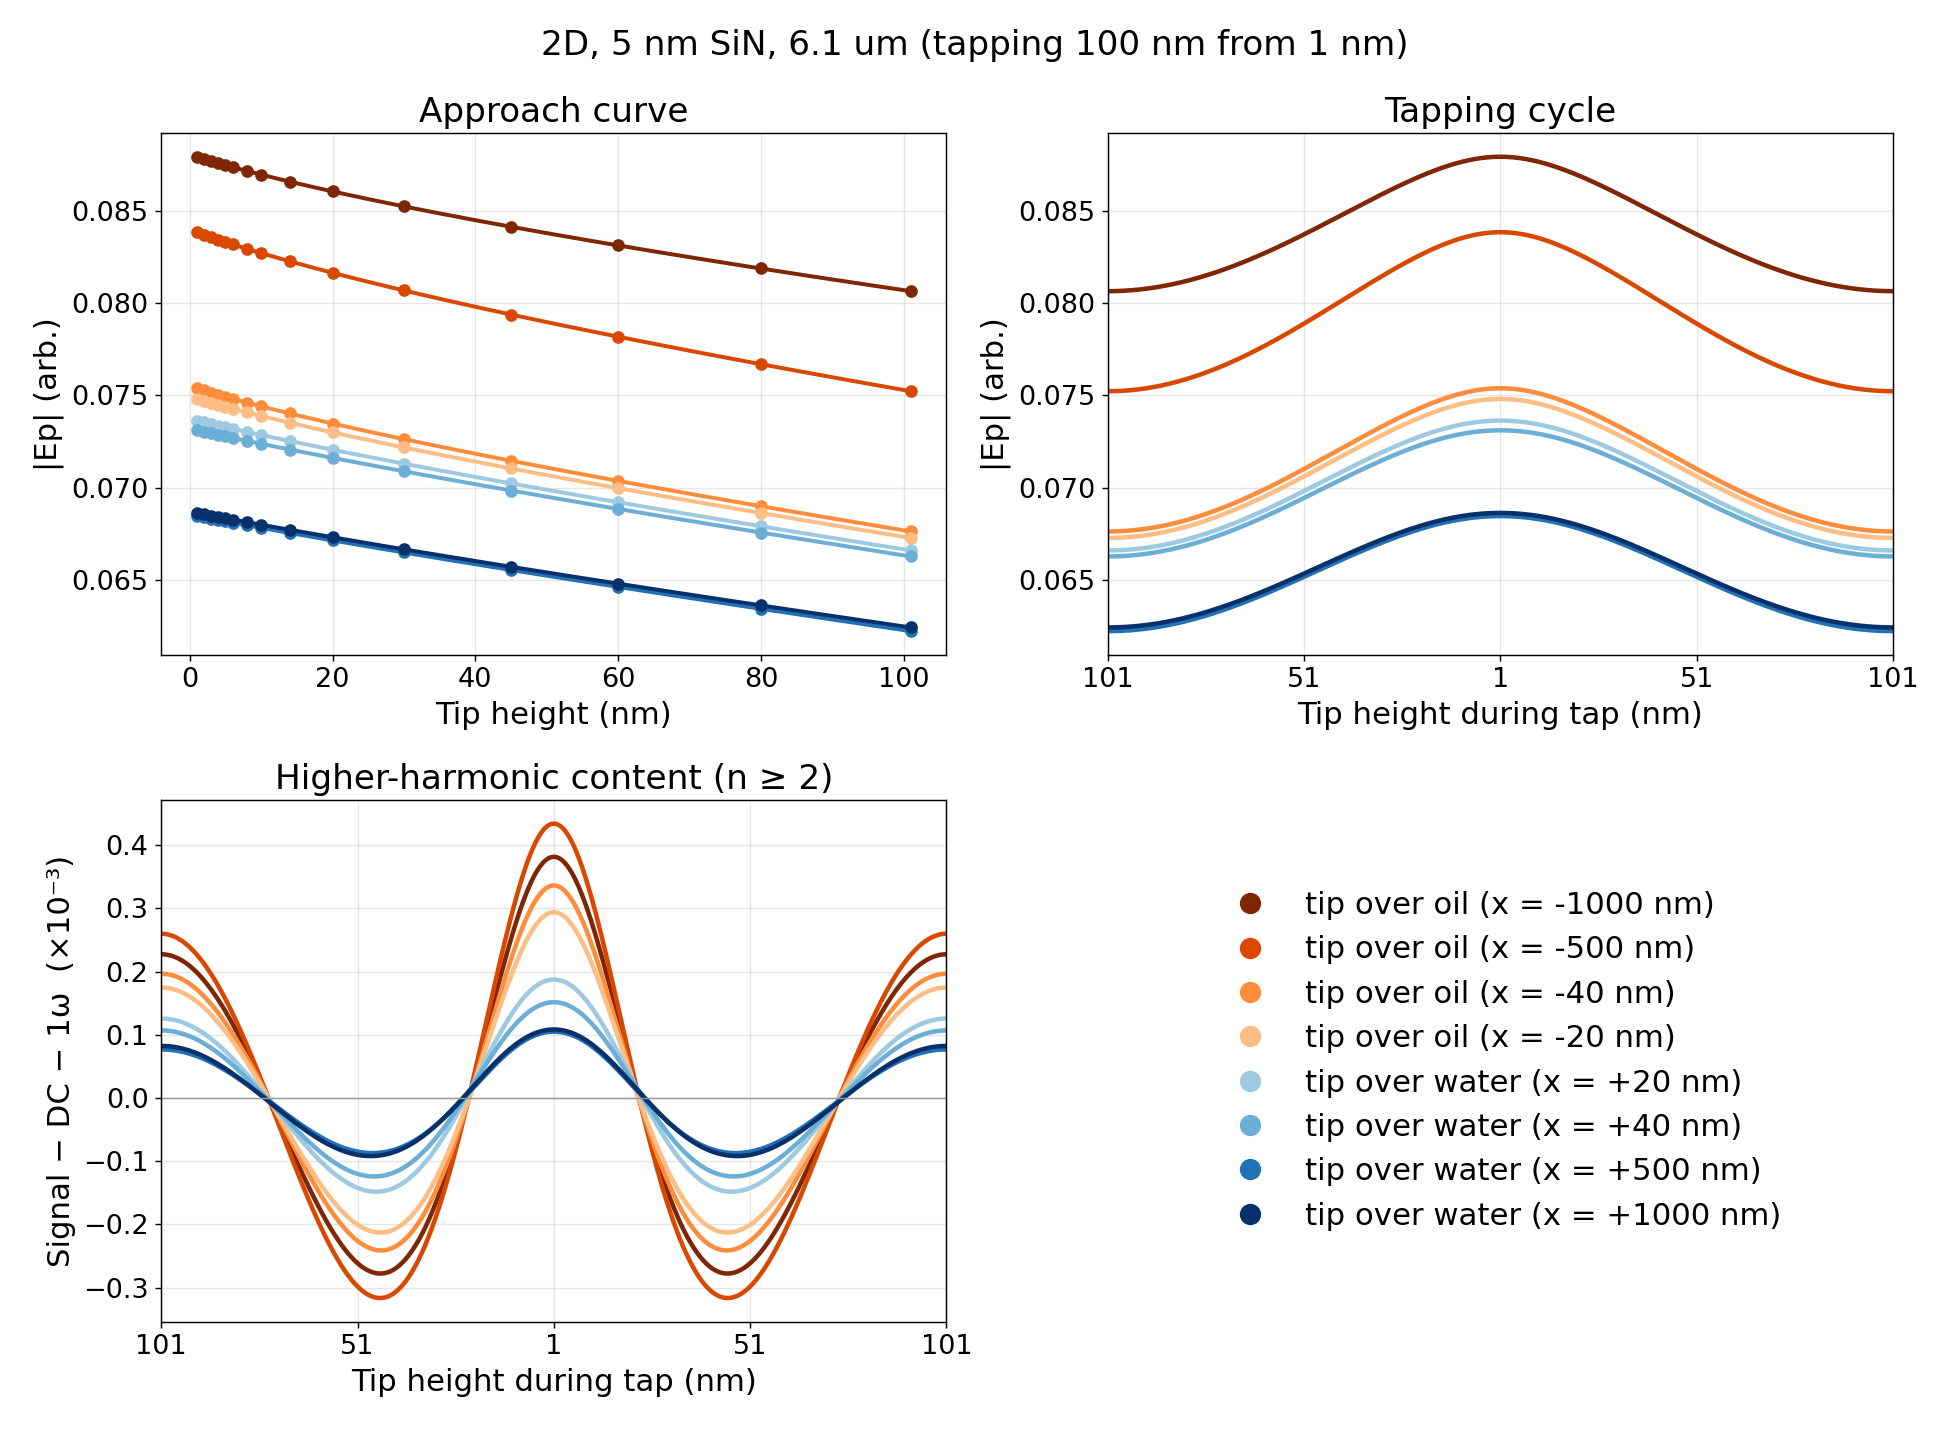
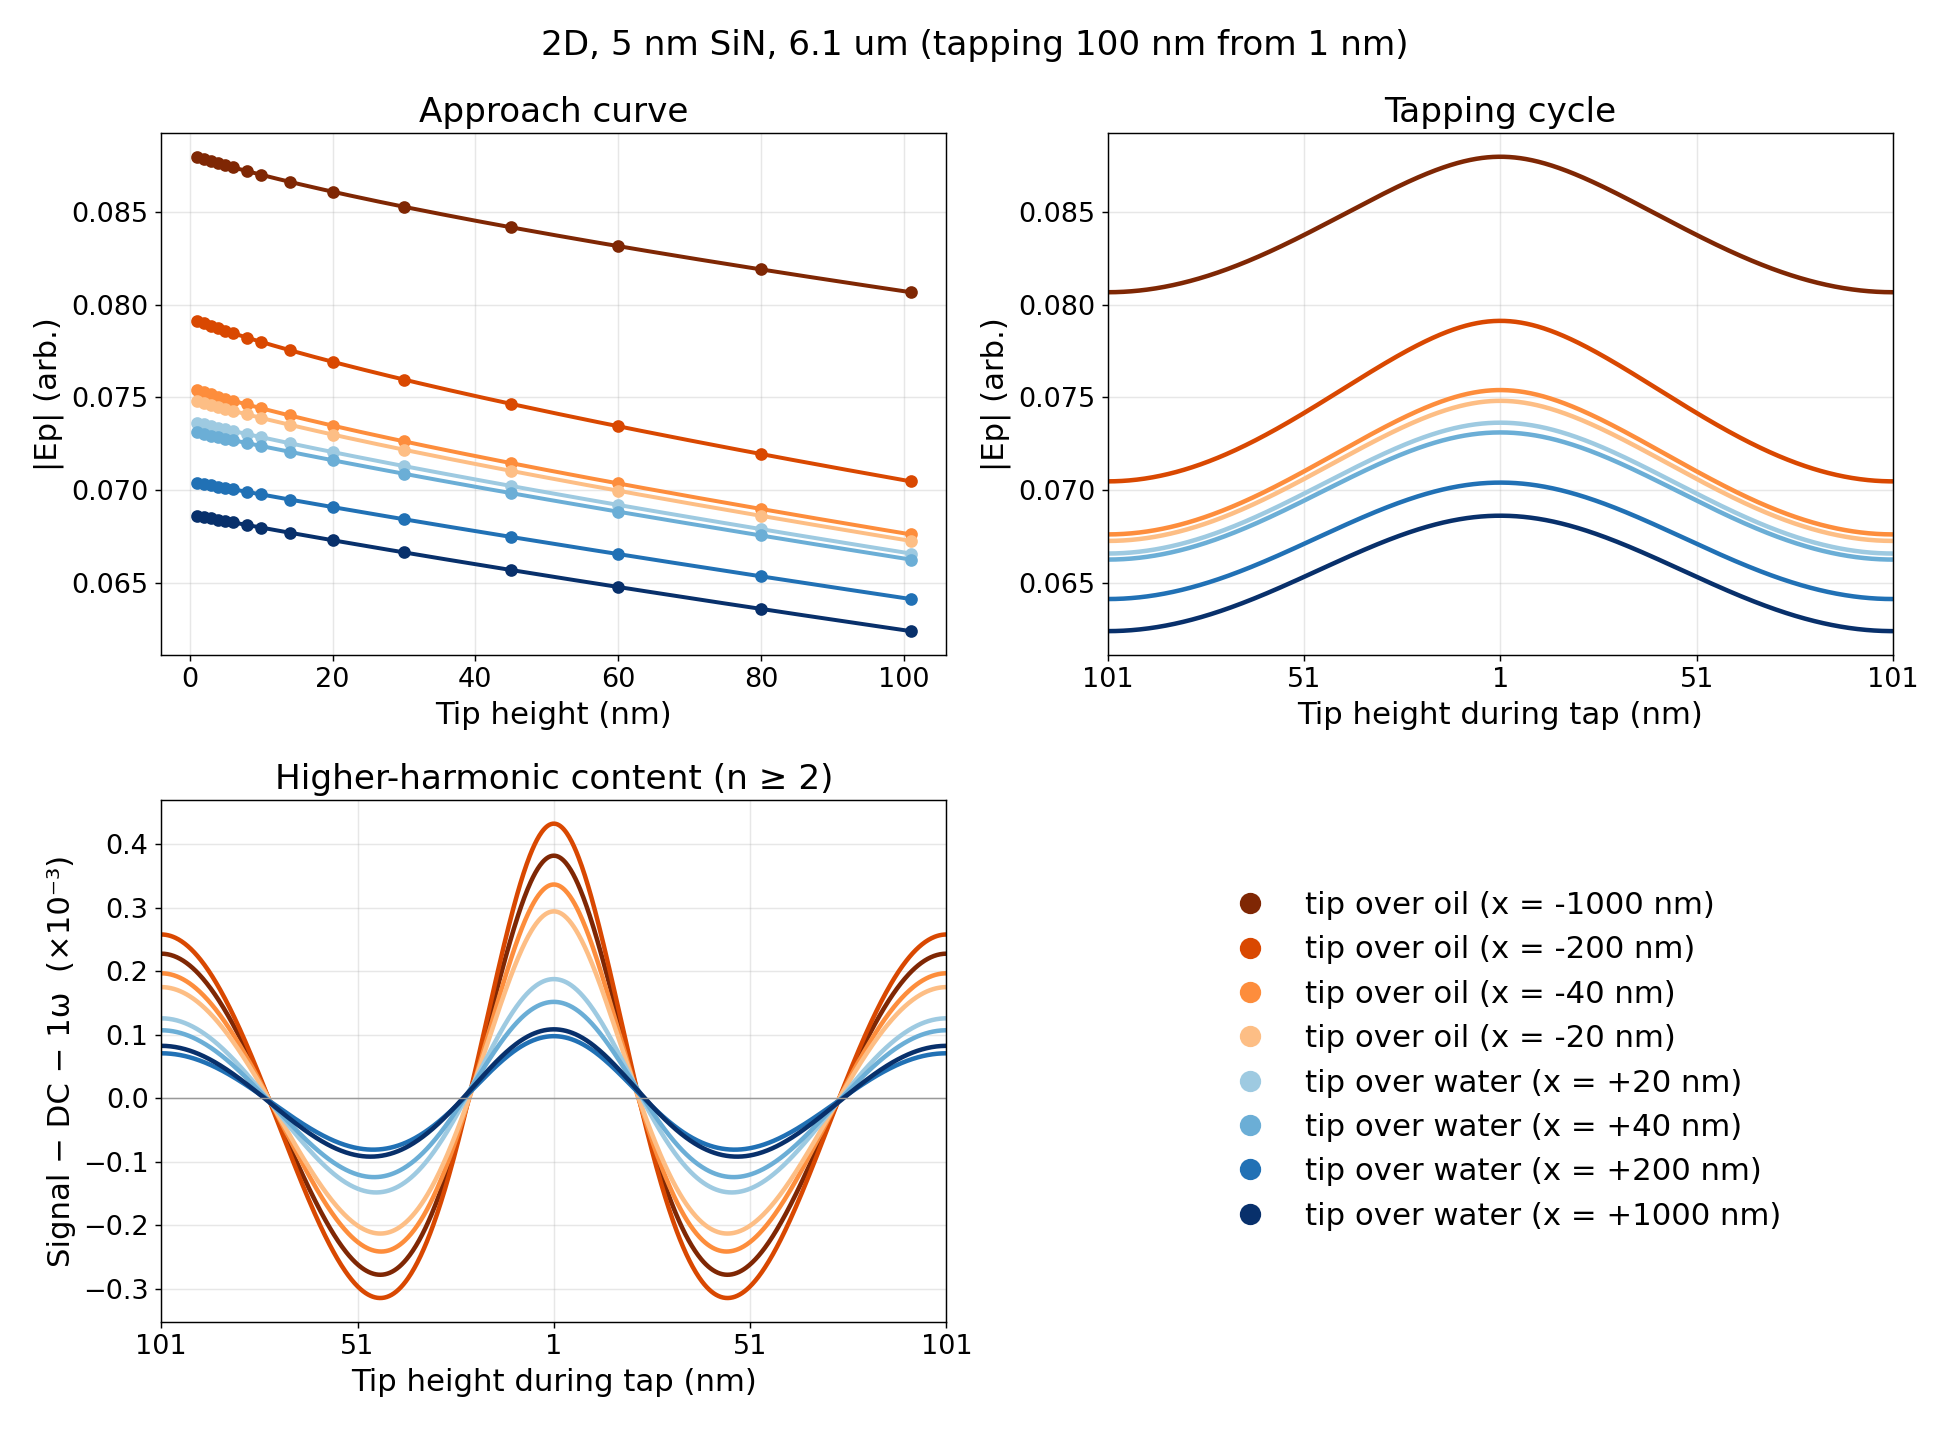
2D: approach/tapping figures with +-200 nm instead of +-500 nm

diff --git a/Interface_LineScan_2D/plot_2d.py b/Interface_LineScan_2D/plot_2d.py
@@ -735,9 +735,9 @@ if __name__ == '__main__' and len(sys.argv) > 1 and sys.argv[1] == 'explain':
         plot_demod_explained(_x, SET)
 
 
-def plot_approach_and_tapping(xs=((-1000.0, 'oil', '#7f2704'), (-500.0, 'oil', '#d94801'), (-40.0, 'oil', '#fd8d3c'),
+def plot_approach_and_tapping(xs=((-1000.0, 'oil', '#7f2704'), (-200.0, 'oil', '#d94801'), (-40.0, 'oil', '#fd8d3c'),
                                   (-20.0, 'oil', '#fdbe85'), (20.0, 'water', '#9ecae1'), (40.0, 'water', '#6baed6'),
-                                  (500.0, 'water', '#2171b5'), (1000.0, 'water', '#08306b')),
+                                  (200.0, 'water', '#2171b5'), (1000.0, 'water', '#08306b')),
                               set_name='sin5', norm=False):
     """
     norm=True: every curve divided by its own |Ep| at the top of the tap (101 nm) -> *_norm.png.
